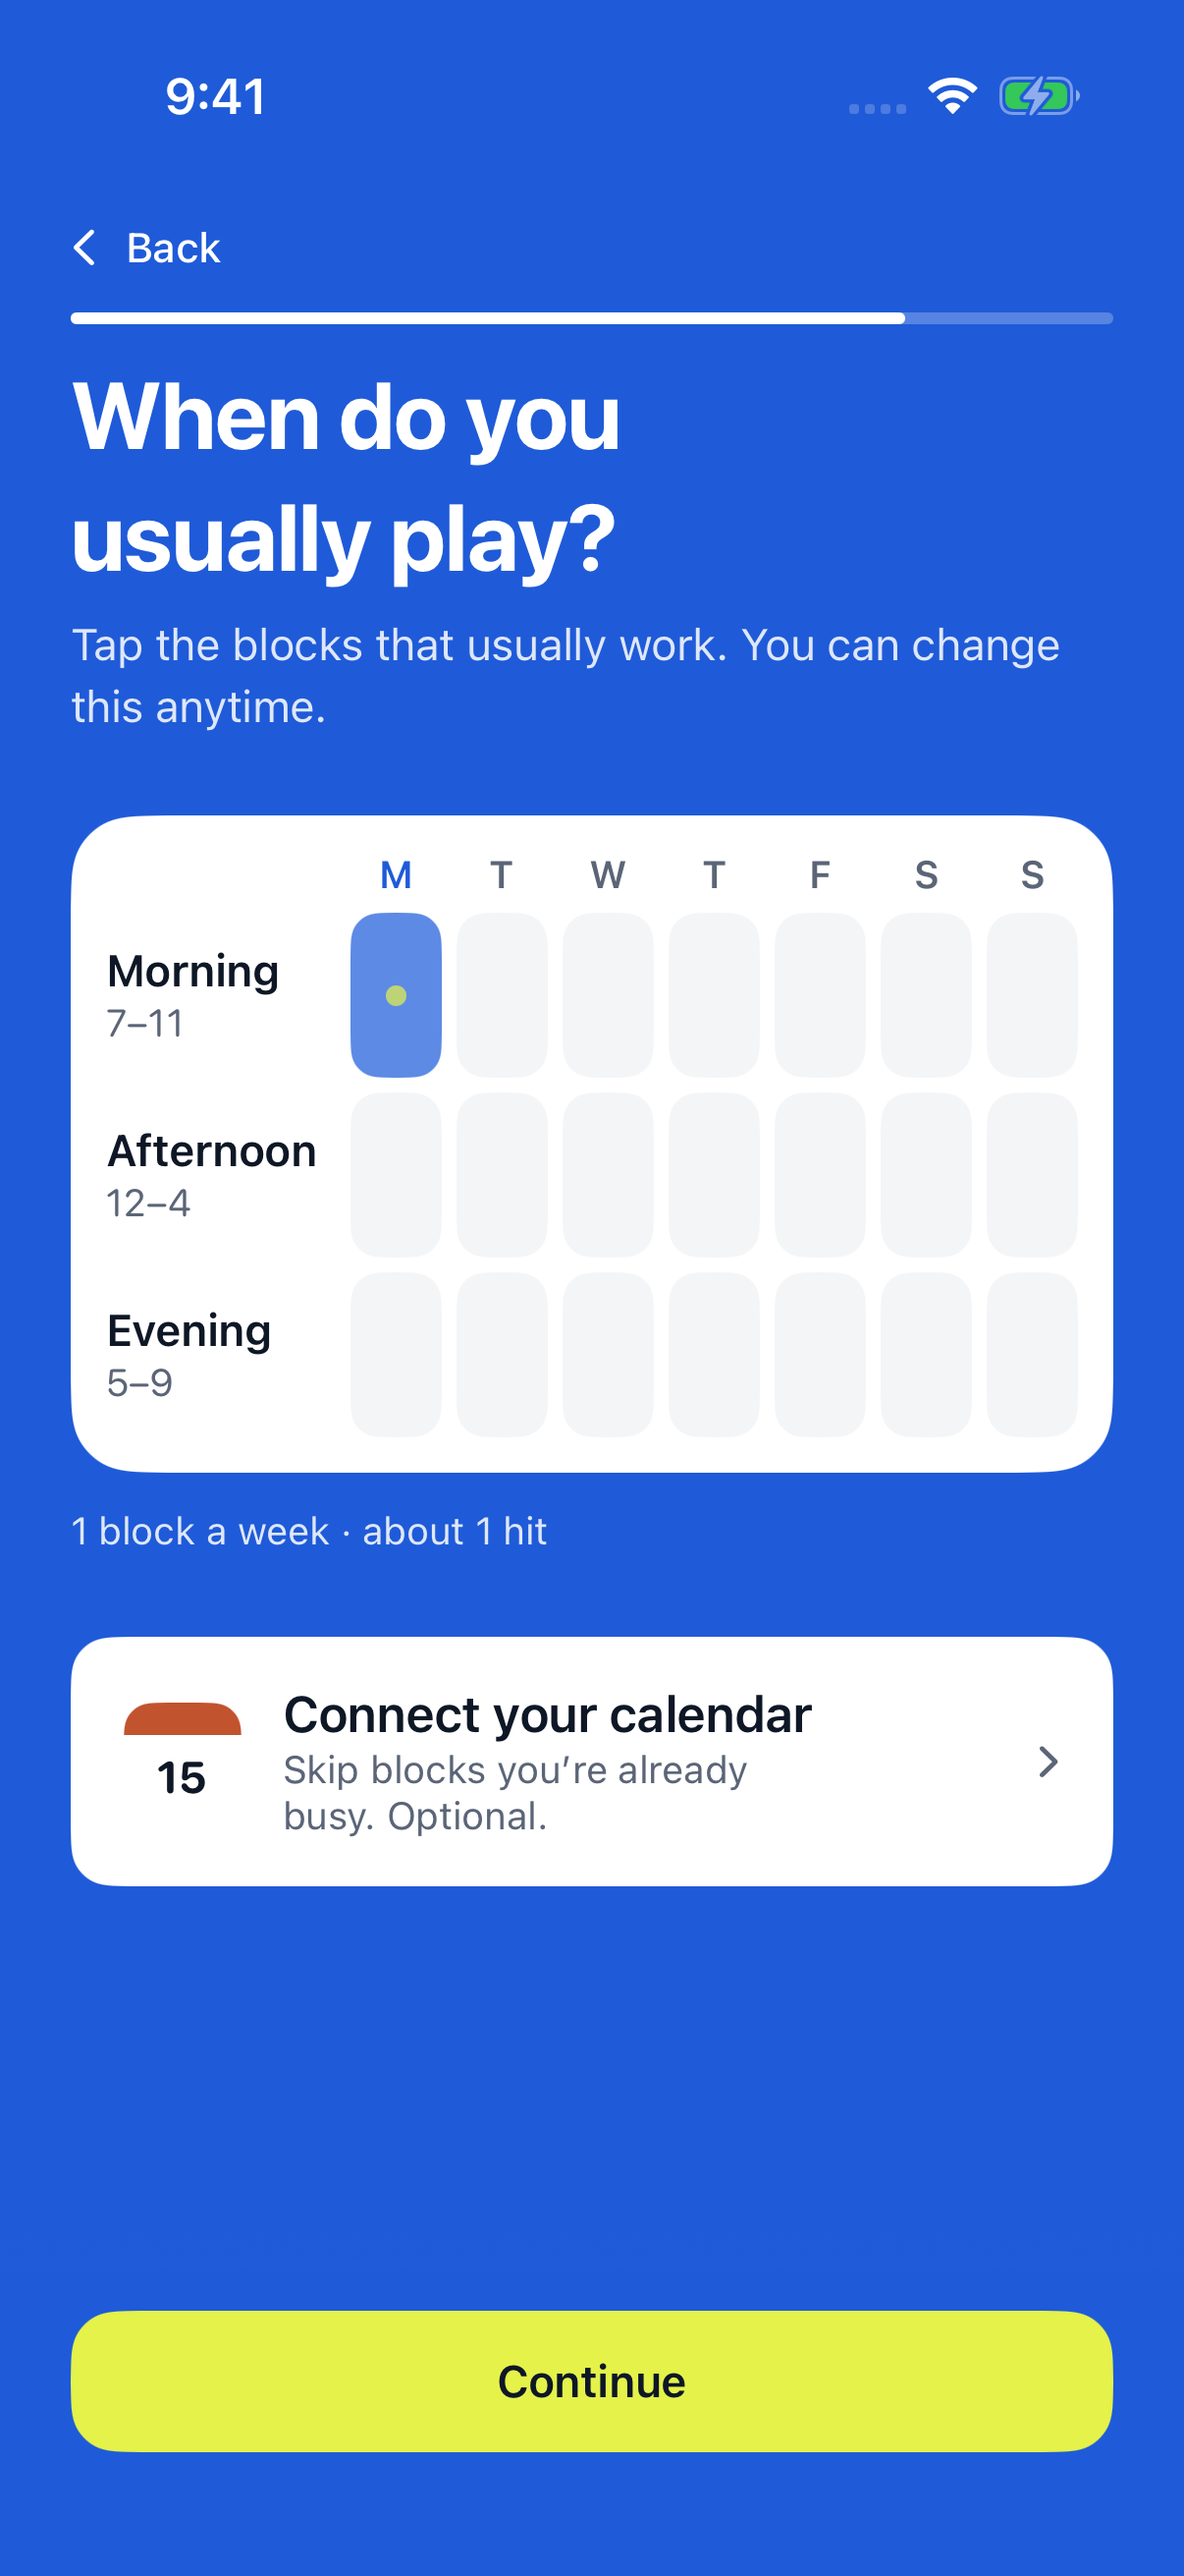
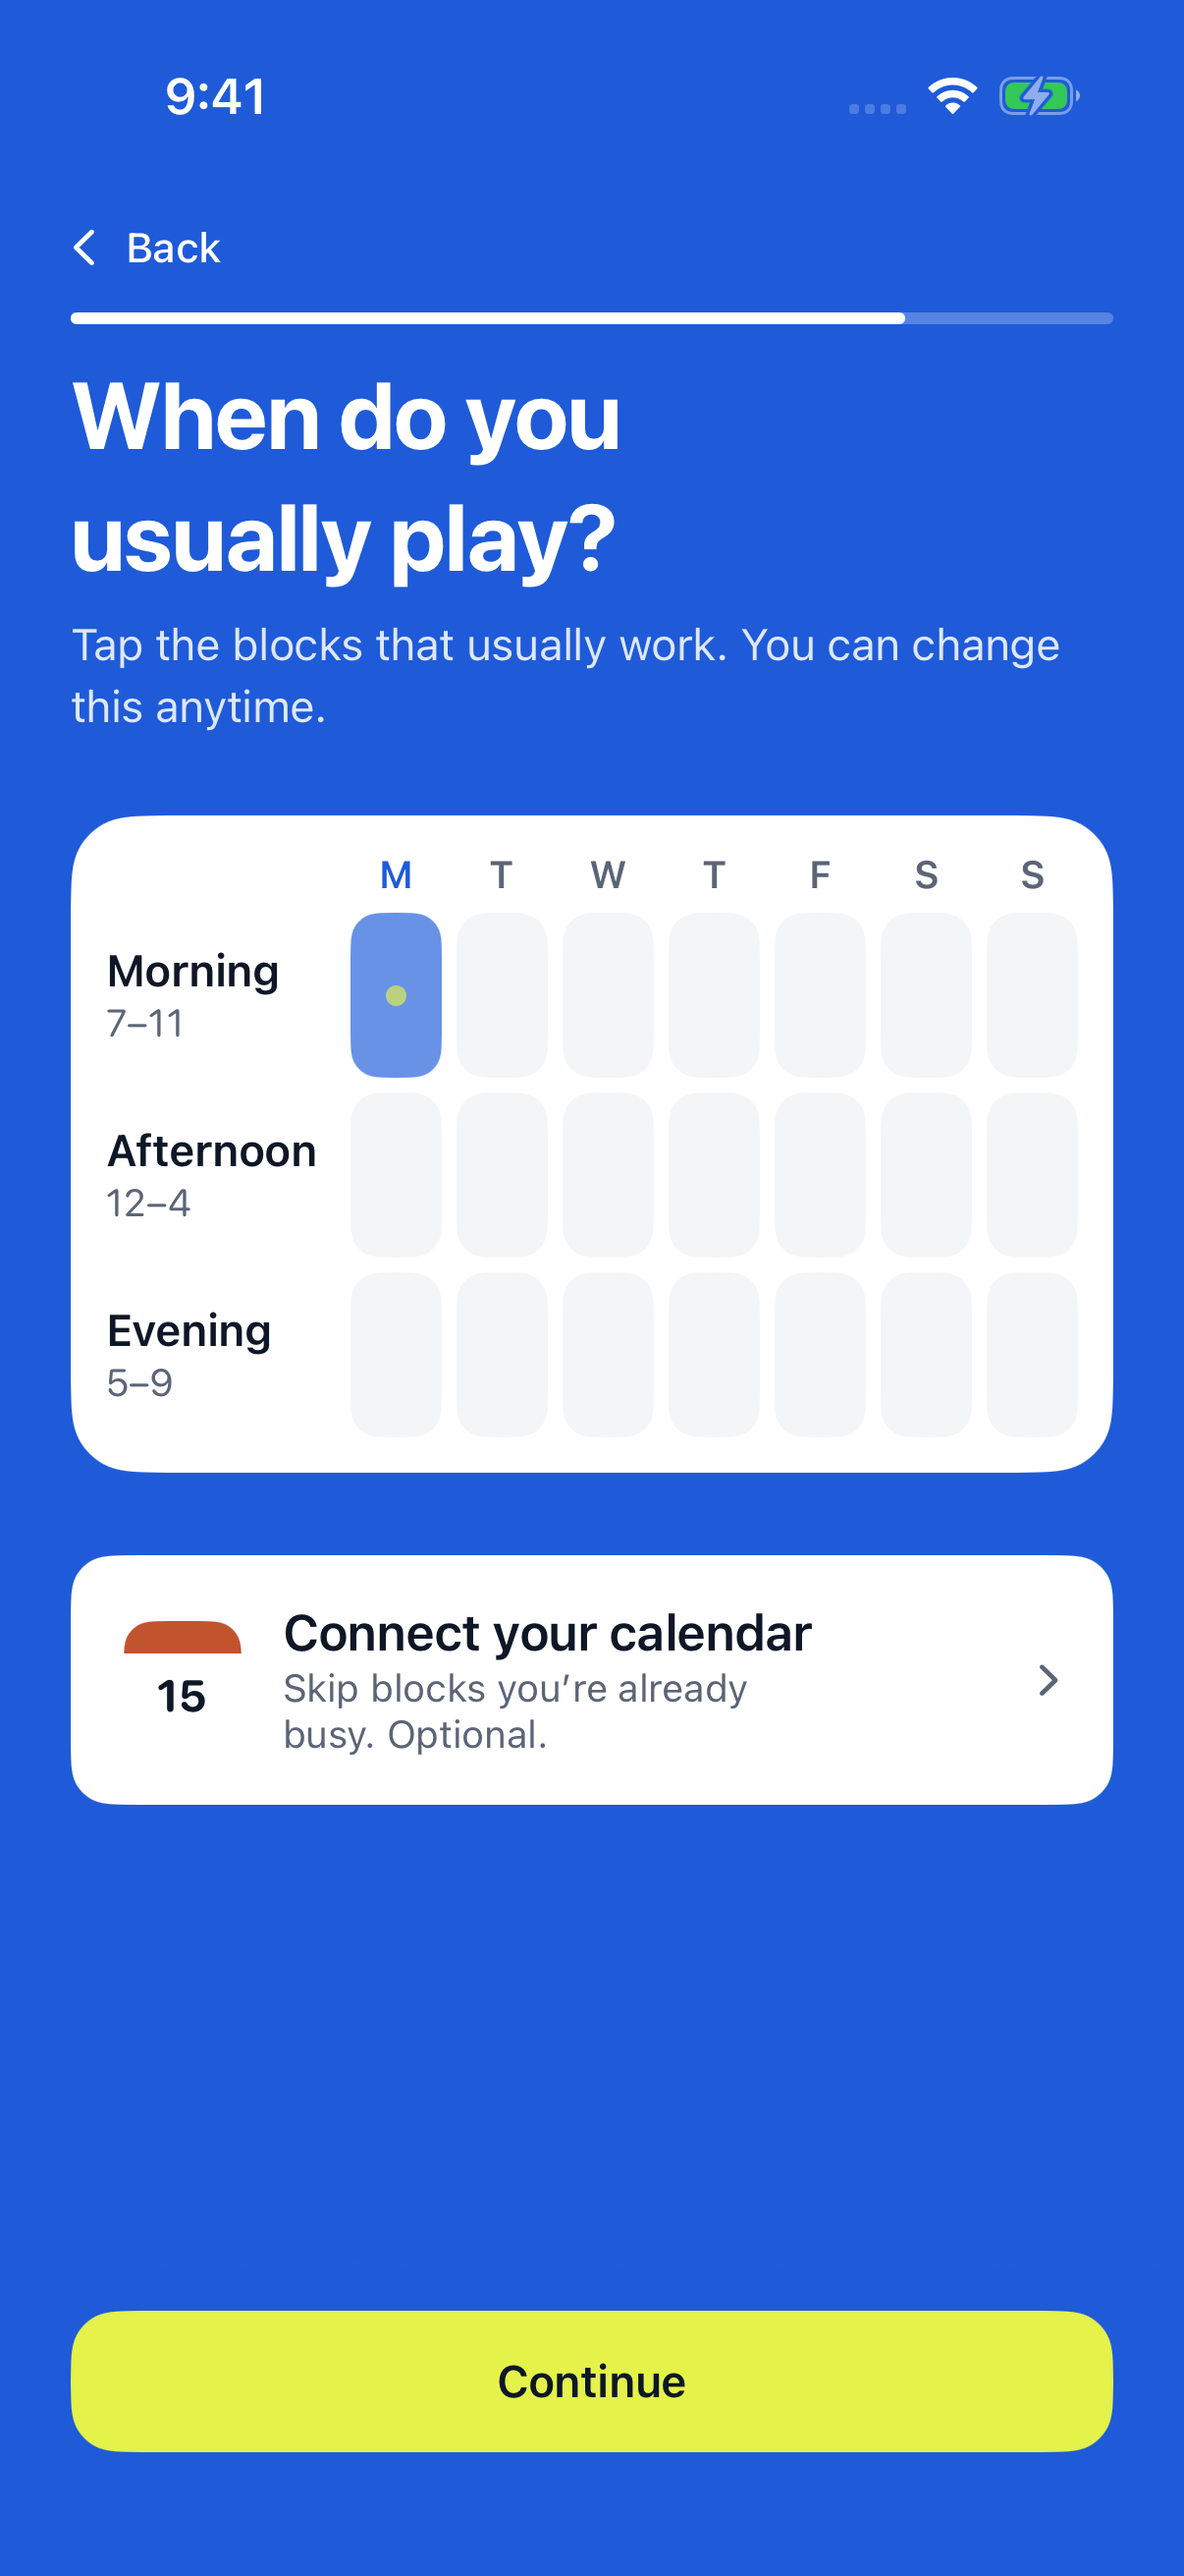
Remove first-run tutorial and availability estimate

Changed region(s): [[0.0614, 0.587, 0.9511, 0.7414]]

diff --git a/ios/Courtly/Features/Main/MainTabView.swift b/ios/Courtly/Features/Main/MainTabView.swift
@@ -11,7 +11,6 @@ struct MainTabView: View {
     @State private var selected: MainTab = .play
     @State private var paths: [MainTab: [AppRoute]] = [:]
     @State private var isPlanning = false
-    @State private var coachStep: Int?
     @State private var liveUpdates: [RealtimeHub.Subscription] = []
     @State private var refreshDebounce: Task<Void, Never>?
     @State private var openGeneration = 0   // the newest deep link is the one that lands
@@ -51,24 +50,12 @@ struct MainTabView: View {
                 } label: {
                     PlusButton.face
                 }
-                .overlay(
-                    Circle()
-                        .stroke(Color.white.opacity(0.35), lineWidth: 4)
-                        .opacity(coachStep == 2 ? 1 : 0)
-                )
-                .anchorPreference(key: CoachAnchorKey.self, value: .bounds) { ["pill": $0] }
                 .accessibilityLabel("Add friends or start a group")
                 .padding(.trailing, 20)
                 .padding(.bottom, 16)
             }
             if isAtRoot && (selected == .play || selected == .myHits) {
                 PlusButton(label: "Plan a hit") { isPlanning = true }
-                    .overlay(
-                        Circle()
-                            .stroke(Color.white.opacity(0.35), lineWidth: 4)
-                            .opacity(coachStep == 3 ? 1 : 0)
-                    )
-                    .anchorPreference(key: CoachAnchorKey.self, value: .bounds) { ["pill": $0] }
                     .padding(.trailing, 20)
                     .padding(.bottom, 16)
             }
@@ -76,19 +63,6 @@ struct MainTabView: View {
         .safeAreaInset(edge: .bottom, spacing: 0) {
             if isAtRoot {
                 GlassTabBar(selected: $selected, dots: dots)
-            }
-        }
-        .overlayPreferenceValue(CoachAnchorKey.self) { anchors in
-            if let coachStep {
-                GeometryReader { proxy in
-                    CoachMarksOverlay(
-                        step: coachStep,
-                        pillFrame: anchors["pill"].map { proxy[$0] },
-                        containerHeight: proxy.size.height,
-                        onNext: advanceCoachMarks
-                    )
-                }
-                .zIndex(1)
             }
         }
         .sheet(isPresented: $isPlanning) {
@@ -112,7 +86,6 @@ struct MainTabView: View {
                 await open(link)   // loads what the screen needs; the lists refresh behind it
             } else {
                 await hits.refreshAll()
-                startCoachMarksIfNeeded()
             }
             await NotificationPermission.registerIfAuthorized()
             startLiveUpdates()
@@ -195,7 +168,6 @@ struct MainTabView: View {
     private func open(_ link: DeepLink) async {
         deepLinks.pending = nil
         isPlanning = false
-        coachStep = nil
         openGeneration += 1
         let generation = openGeneration
         switch link {
@@ -226,47 +198,6 @@ struct MainTabView: View {
             Task { await inbox.load() }
         }
     }
-
-    // MARK: - Coach marks
-
-    /// Remembered on the device as well, under the player's own account, so tips finished offline stay
-    /// finished for that player and no one else; the server hears next time.
-    static func coachMarksDoneKey(for account: UUID) -> String { "coach_marks_done_local.\(account.uuidString)" }
-
-    /// Only over the Play root: a pushed screen or another tab is not where the tips point.
-    private func startCoachMarksIfNeeded() {
-        guard let profile = session.profile, !profile.coachMarksDone, coachStep == nil else { return }
-        if UserDefaults.standard.bool(forKey: Self.coachMarksDoneKey(for: profile.id)) {
-            Task { try? await session.updateProfile(["coach_marks_done": true]) }   // finished before; the save hadn't landed
-            return
-        }
-        Task { @MainActor in
-            try? await Task.sleep(for: .milliseconds(700))
-            guard coachStep == nil, session.profile?.coachMarksDone == false, isAtRoot, selected == .play, deepLinks.pending == nil else { return }
-            withAnimation(.easeInOut(duration: 0.25)) { coachStep = 1 }
-        }
-    }
-
-    private func advanceCoachMarks() {
-        guard let step = coachStep else { return }
-        withAnimation(.easeInOut(duration: 0.25)) {
-            switch step {
-            case 1:
-                selected = .people
-                coachStep = 2
-            case 2:
-                selected = .play
-                coachStep = 3
-            default:
-                coachStep = nil
-            }
-        }
-        if step >= 3 {
-            if let account = session.profile?.id { UserDefaults.standard.set(true, forKey: Self.coachMarksDoneKey(for: account)) }
-            Task { try? await session.updateProfile(["coach_marks_done": true]) }
-        }
-    }
-
 
     private var dots: Set<MainTab> {
         var tabs = Set<MainTab>()

diff --git a/ios/CourtlyUITests/ScreenshotTests.swift b/ios/CourtlyUITests/ScreenshotTests.swift
@@ -42,10 +42,9 @@ final class ScreenshotTests: XCTestCase {
         codeField.tap()
         codeField.typeText(code)   // eight digits verify on their own
 
-        // Play, with the first-run tips dismissed.
+        // Play is directly usable after sign-in, without first-run tips.
         let myHitsTab = app.buttons["My Hits"]
         XCTAssertTrue(myHitsTab.waitForExistence(timeout: 60), "Signing in did not reach the main tabs")
-        dismissCoachMarks()
         settle(5)
         save("play")
 
@@ -86,23 +85,6 @@ final class ScreenshotTests: XCTestCase {
     }
 
     // MARK: - Helpers
-
-    /// Taps through "Next", "Next", "Got it" when the first-run tips are showing.
-    private func dismissCoachMarks() {
-        for _ in 0..<3 {
-            let next = app.buttons["Next"]
-            let gotIt = app.buttons["Got it"]
-            if next.waitForExistence(timeout: 3) {
-                next.tap()
-            } else if gotIt.exists {
-                gotIt.tap()
-                return
-            } else {
-                return
-            }
-        }
-        if app.buttons["Got it"].waitForExistence(timeout: 3) { app.buttons["Got it"].tap() }
-    }
 
     /// The other tabs stay in the hierarchy at zero opacity, so a label match alone can land on a
     /// card that is not on screen; the first one that can be tapped is the one on the visible tab.

diff --git a/ios/Courtly/Features/Onboarding/Screens/AvailabilityView.swift b/ios/Courtly/Features/Onboarding/Screens/AvailabilityView.swift
@@ -27,10 +27,6 @@ struct AvailabilityView: View {
                 CalendarConnectedRow(connection: connection) { showsCalendarSheet = true }
                     .padding(.top, 28)
             } else {
-                Text(draft.availability.summary)
-                    .font(CourtlyFont.caption)
-                    .foregroundStyle(.white.opacity(0.85))
-                    .padding(.top, 12)
                 CalendarConnectRow { showsCalendarSheet = true }
                     .padding(.top, 28)
             }
